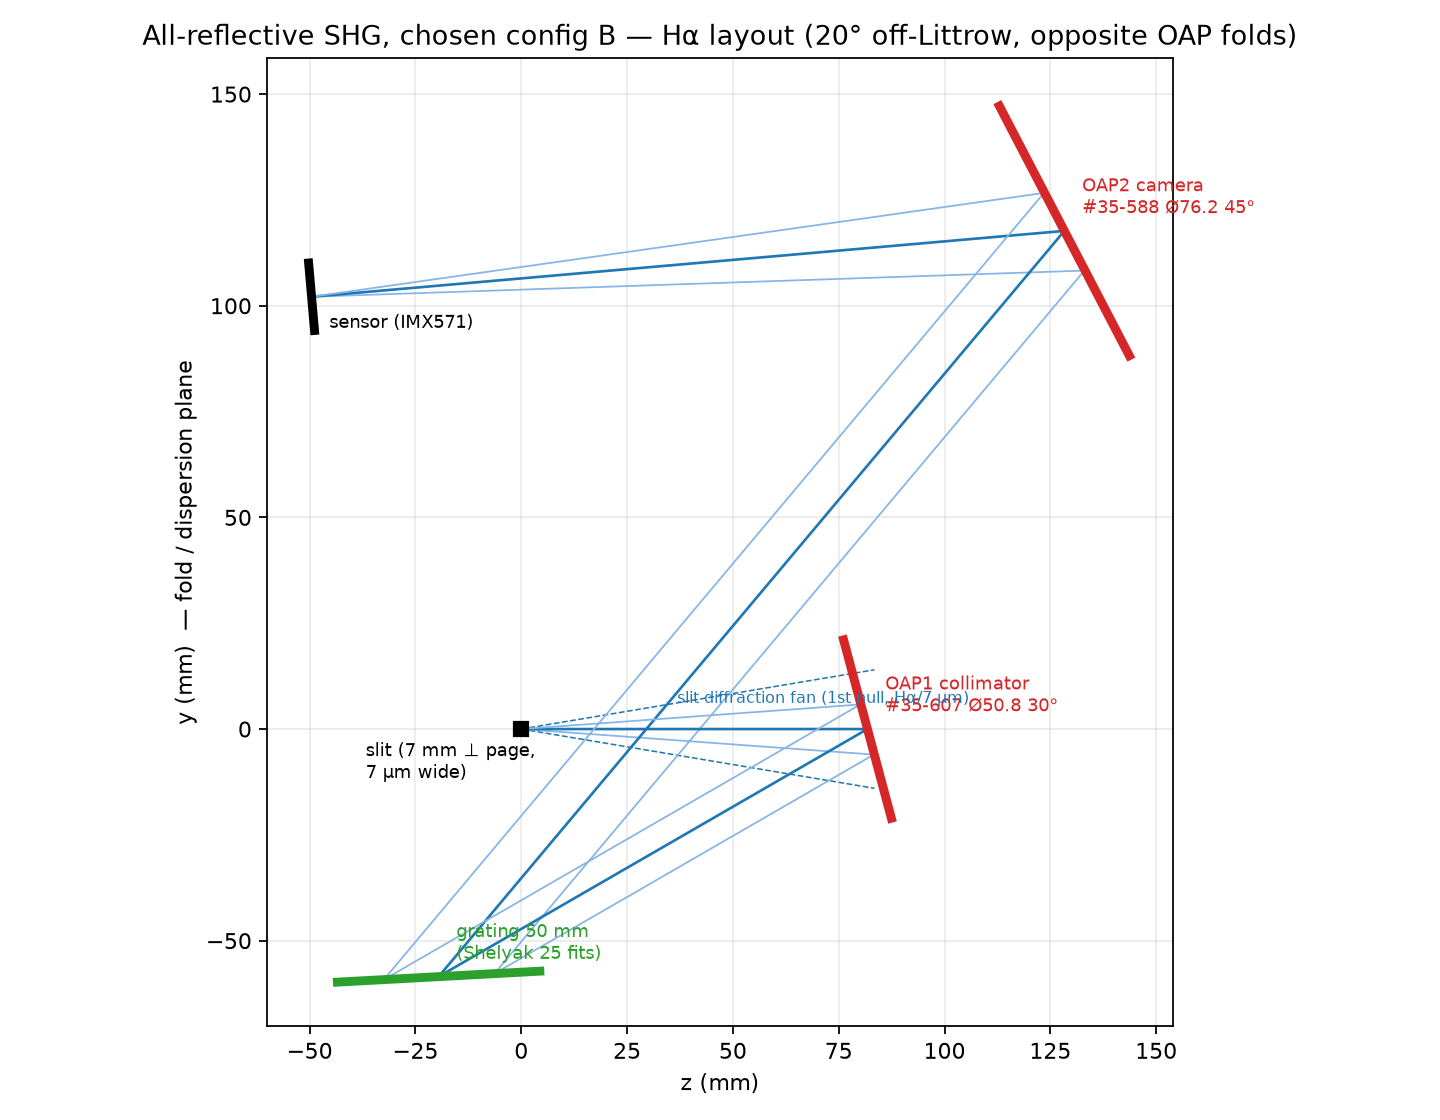
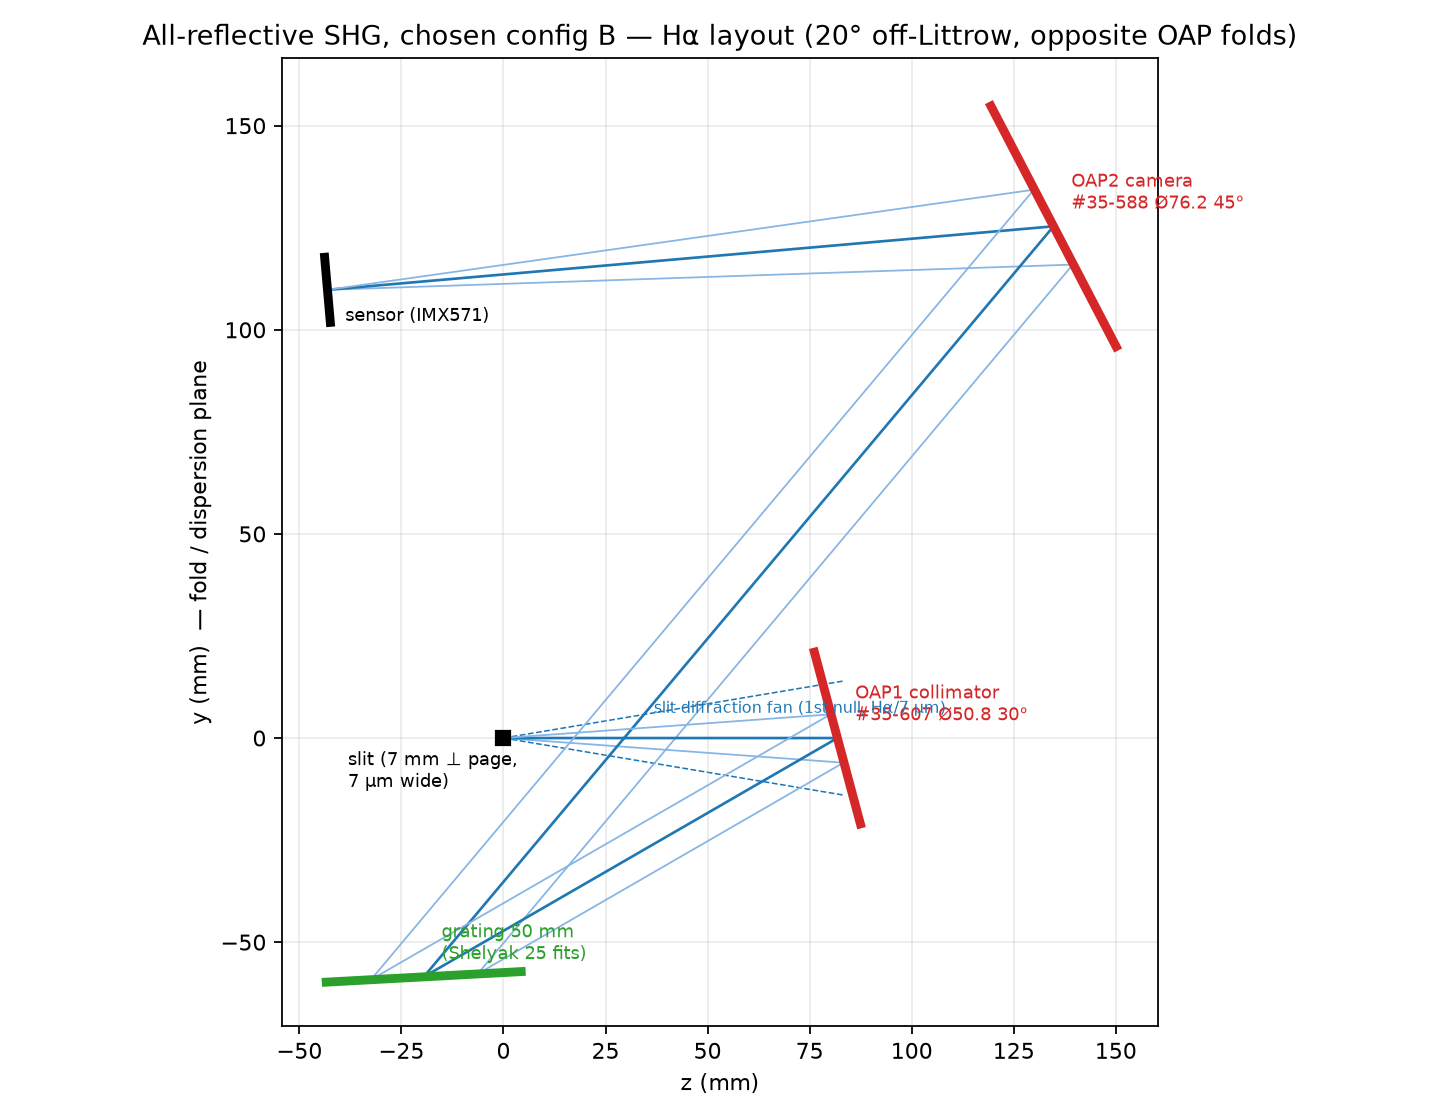
Camera envelope: real IMX571 dims (Ø80 body, Ø100x10 tilt flange, 108mm); Lc=240
Separation 109.8mm clears every stack station: tilt plate +25mm vs snout
tube, body +25mm vs drawtube, tail +10mm vs OTA worst case. Ghost camera
envelope added to the preview render for future collision checks.

diff --git a/design/raytrace.py b/design/raytrace.py
@@ -292,7 +292,7 @@ CONFIGS = {
 # Chosen buildable geometry (see RESULTS.md): config B, off-Littrow 20 deg,
 # opposite folds, grating arm sized for 40 mm return-beam clearance.
 CHOSEN = dict(config="B_edmund_30s-45", dev=20.0, s2=-1.0,
-              Lg=117.0, Lc=230.0)
+              Lg=117.0, Lc=240.0)
 
 LINES = [  # (label, lambda nm, lines/mm, order)
     ("CaK 393", 393.37, 2400.0, 1),

diff --git a/design/BODY.md b/design/BODY.md
@@ -30,12 +30,14 @@ raytrace.
   interface: PRINTED M42 x 0.75 (T2) female thread, 9 mm deep, at the
   exterior end. Sensor plane sits at the interior end of the tunnel —
   set back-focus with the helical focuser.
-- Camera clearance: camera axis sits 102 mm from the telescope axis
-  (set by Lc = 230 in CHOSEN). An Ø80 cooled IMX571 body (ToupTek ATR
-  class) clears the Ø64 snout extension by ~20 mm over a 110 mm stack;
-  Ø90 bodies clear by ~15 mm. If the camera were truly Ø160, Lc must
-  rise to ~270 and the body would need split-printing — confirm the
-  real body diameter before printing.
+- Camera clearance (measured camera: cooled IMX571, Ø80 body, Ø100 x 10
+  tilt-adjuster flange at the opening, 108 mm long; ~Ø58 x 20 helical
+  assumed): camera axis 109.8 mm from the telescope axis (Lc = 240).
+  Margins along the stack: tilt plate vs snout tube +25 mm; body vs
+  snout end +32 mm; body vs drawtube +25 mm; body tail vs Ø95 OTA
+  +10 mm (chain-dependent worst case). Ghost camera envelope renders in
+  part="preview" — update camFocD/L, camTiltD/T, camBodyD/L if the
+  focuser choice changes.
 - Printed-thread rules (both ports): 0.10-0.15 mm layers over the thread
   region, slow perimeters, no supports in the bore; chase gently with the
   mating metal part; if a print tears, bump camThreadClr by +0.1. The
